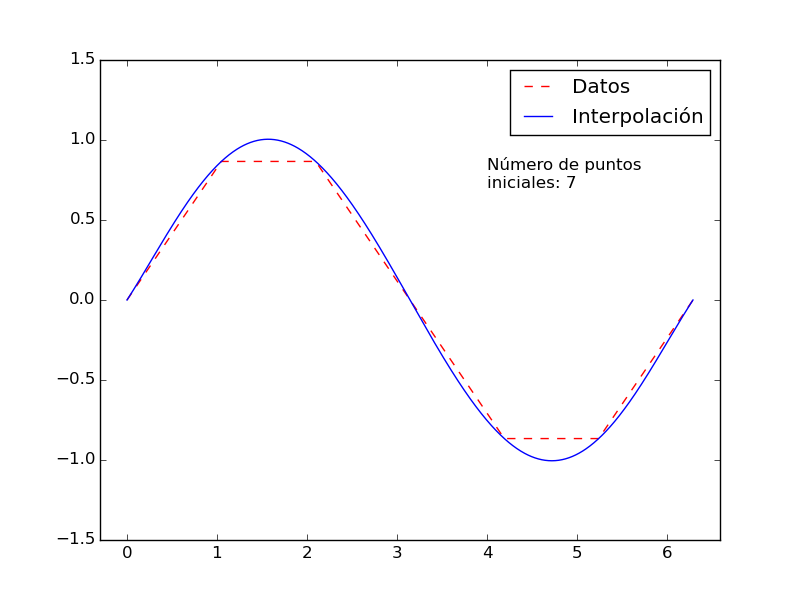
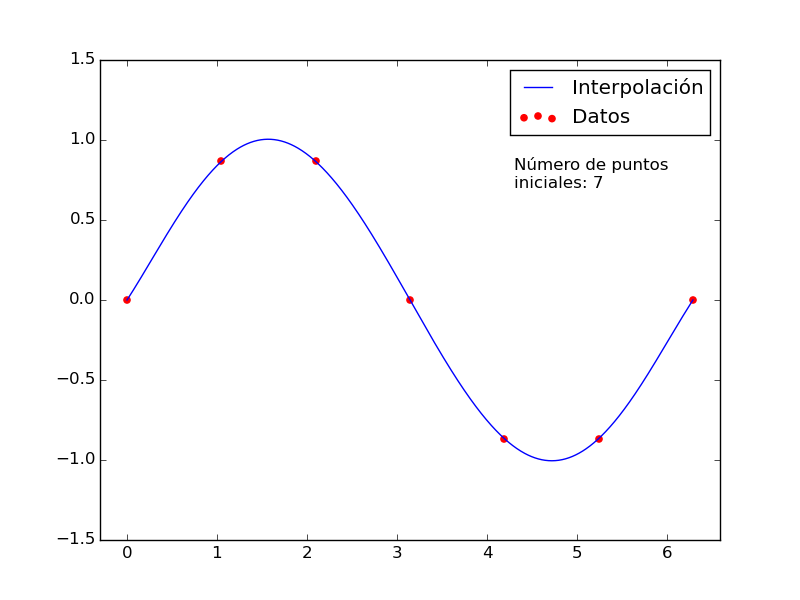
taller4 completado

diff --git a/Talleres/taller4.md b/Talleres/taller4.md
@@ -18,13 +18,15 @@ def interpolacion_seno(numPuntos=4,**kawrgs):
     xpol = np.linspace(0,2*np.pi,1000)
     pol = interlagr(x,y)
     #Gráfica
-    plt.plot(x,y,color='red',label='Datos',linestyle='--')
+    plt.scatter(x,y,color='red',label='Datos')
     plt.plot(xpol,pol(xpol),color='blue',label='Interpolación')
     plt.legend()
     plt.xlim(-0.3,np.pi*2+0.3)
     plt.ylim(-1.5,1.5)
-    plt.text(4,0.7,"Número de puntos\niniciales: %d"%numPuntos)
+    plt.text(4.3,0.7,"Número de puntos\niniciales: %d"%numPuntos)
     plt.show()
+
+interpolacion_seno(numPuntos=7)
 ```
 El resultado final se ve así:
 ![](https://raw.githubusercontent.com/diegolramirez/MC/master/Talleres/taller(15-06-17)/sin.png)
@@ -49,23 +51,23 @@ polpulse = interlagr(x,ypulse)
 polstep = interlagr(x,ystep)
 
 #Hago las gráficas
-plt.figure(figsize=(8, 8))
+plt.figure(figsize=(11, 7))
 plt.subplots_adjust(hspace=0.3, wspace=0.00)
 #Pulse
 plt.subplot(2,1,1)
-plt.plot(x,ypulse,color='red',label='Datos',linestyle='--')
+plt.scatter(x,ypulse,color='red',label='Datos')
 plt.plot(xpol,linearpulse(xpol),color='blue',label='Linear')
 plt.plot(xpol,cubicpulse(xpol),color='green',label='Cubic')
 plt.plot(xpol,polpulse(xpol),color='black',label='Poli')
-plt.legend(loc=8)
+plt.legend(loc=8,frameon=0)
 plt.title("Pulse")
 #Step
 plt.subplot(2,1,2)
-plt.plot(x,ystep,color='red',label='Datos',linestyle='--')
+plt.scatter(x,ystep,color='red',label='Datos')
 plt.plot(xpol,linearstep(xpol),color='blue',label='Linear')
 plt.plot(xpol,cubicstep(xpol),color='green',label='Cubic')
 plt.plot(xpol,polstep(xpol),color='black',label='Poli')
-plt.legend(loc=4)
+plt.legend(loc=4,frameon=0)
 plt.title("Step")
 
 plt.show()
@@ -103,6 +105,52 @@ El resultado final se ve así:
 |4.19566321688|0.0396966472625|
 |4.3105185461|-0.0681282942773|
 |4.45641816306|-0.0704087548339|
+
+```
+#Descargo los datos y los formateo a un .csv
+os.system("curl -s https://raw.githubusercontent.com/ComputoCienciasUniandes/MetodosComputacionalesLaboratorio/master/2015-V/actividades/talleres/Taller4/Taller4.md > datos3.txt")
+os.system("sed -i '1,/3\.\ La/d' datos3.txt")
+os.system("sed -i '/Al\ terminar\ la/,$d' datos3.txt")
+os.system("sed -i 's/^\s//g' datos3.txt")
+os.system("sed -i '/^ *$/d' datos3.txt")
+os.system("sed -i 's/^|//g' datos3.txt")
+os.system("sed -i 's/|$//g' datos3.txt")
+os.system("sed -i 's/|/,/g' datos3.txt")
+os.system("sed -i '/--/d' datos3.txt")
+os.system("sed -i 's/\s//g' datos3.txt")
+os.system("mv datos3.txt datos3.csv")
+
+#Importo datos
+datos3 = np.genfromtxt("datos3.csv",delimiter=",",names=True)
+
+#Hago la interpolación y defino un nuevo intervalo x con más puntos
+cubicInterpolation = interpolate.interp1d(datos3["x"],datos3["y"],kind='cubic')
+xinterpol = np.linspace(datos3["x"][0],datos3["x"][len(datos3["x"])-1],1000)
+
+#Grafico interpolación y datos originales
+plt.scatter(datos3["x"],datos3["y"],color='red',label='Datos',linestyle='--')
+plt.plot(xinterpol,cubicInterpolation(xinterpol),color='blue',label='CubicFit')
+plt.legend(loc=4)
+plt.title("Interpolación con datos no uniformemente espaciados")
+plt.show()
+```
+El resultado final se ve así:
+![](https://raw.githubusercontent.com/diegolramirez/MC/master/Talleres/taller(15-06-17)/datosnu.png)
+
+```
+#Defino un nuevo intervalo x, y uniformemente espaciados
+xespaciado = np.linspace(datos3["x"][0],datos3["x"][len(datos3["x"])-1],len(datos3["x"]))
+yespaciado = cubicInterpolation(xespaciado)
+
+#Grafico interpolación y datos uniformemente espaciados
+plt.scatter(xespaciado,yespaciado,color='blue',label='DatosUniformes')
+plt.plot(xinterpol,cubicInterpolation(xinterpol),color='red',label='CubicFit')
+plt.legend()
+plt.title("Interpolación con datos uniformemente espaciados")
+plt.show()
+```
+El resultado final se ve así:
+![](https://raw.githubusercontent.com/diegolramirez/MC/master/Talleres/taller(15-06-17)/datosu.png)
 
 
 **Al terminar la clase ejecute `lottery.sh` para saber si su taller va a ser revisado.**
